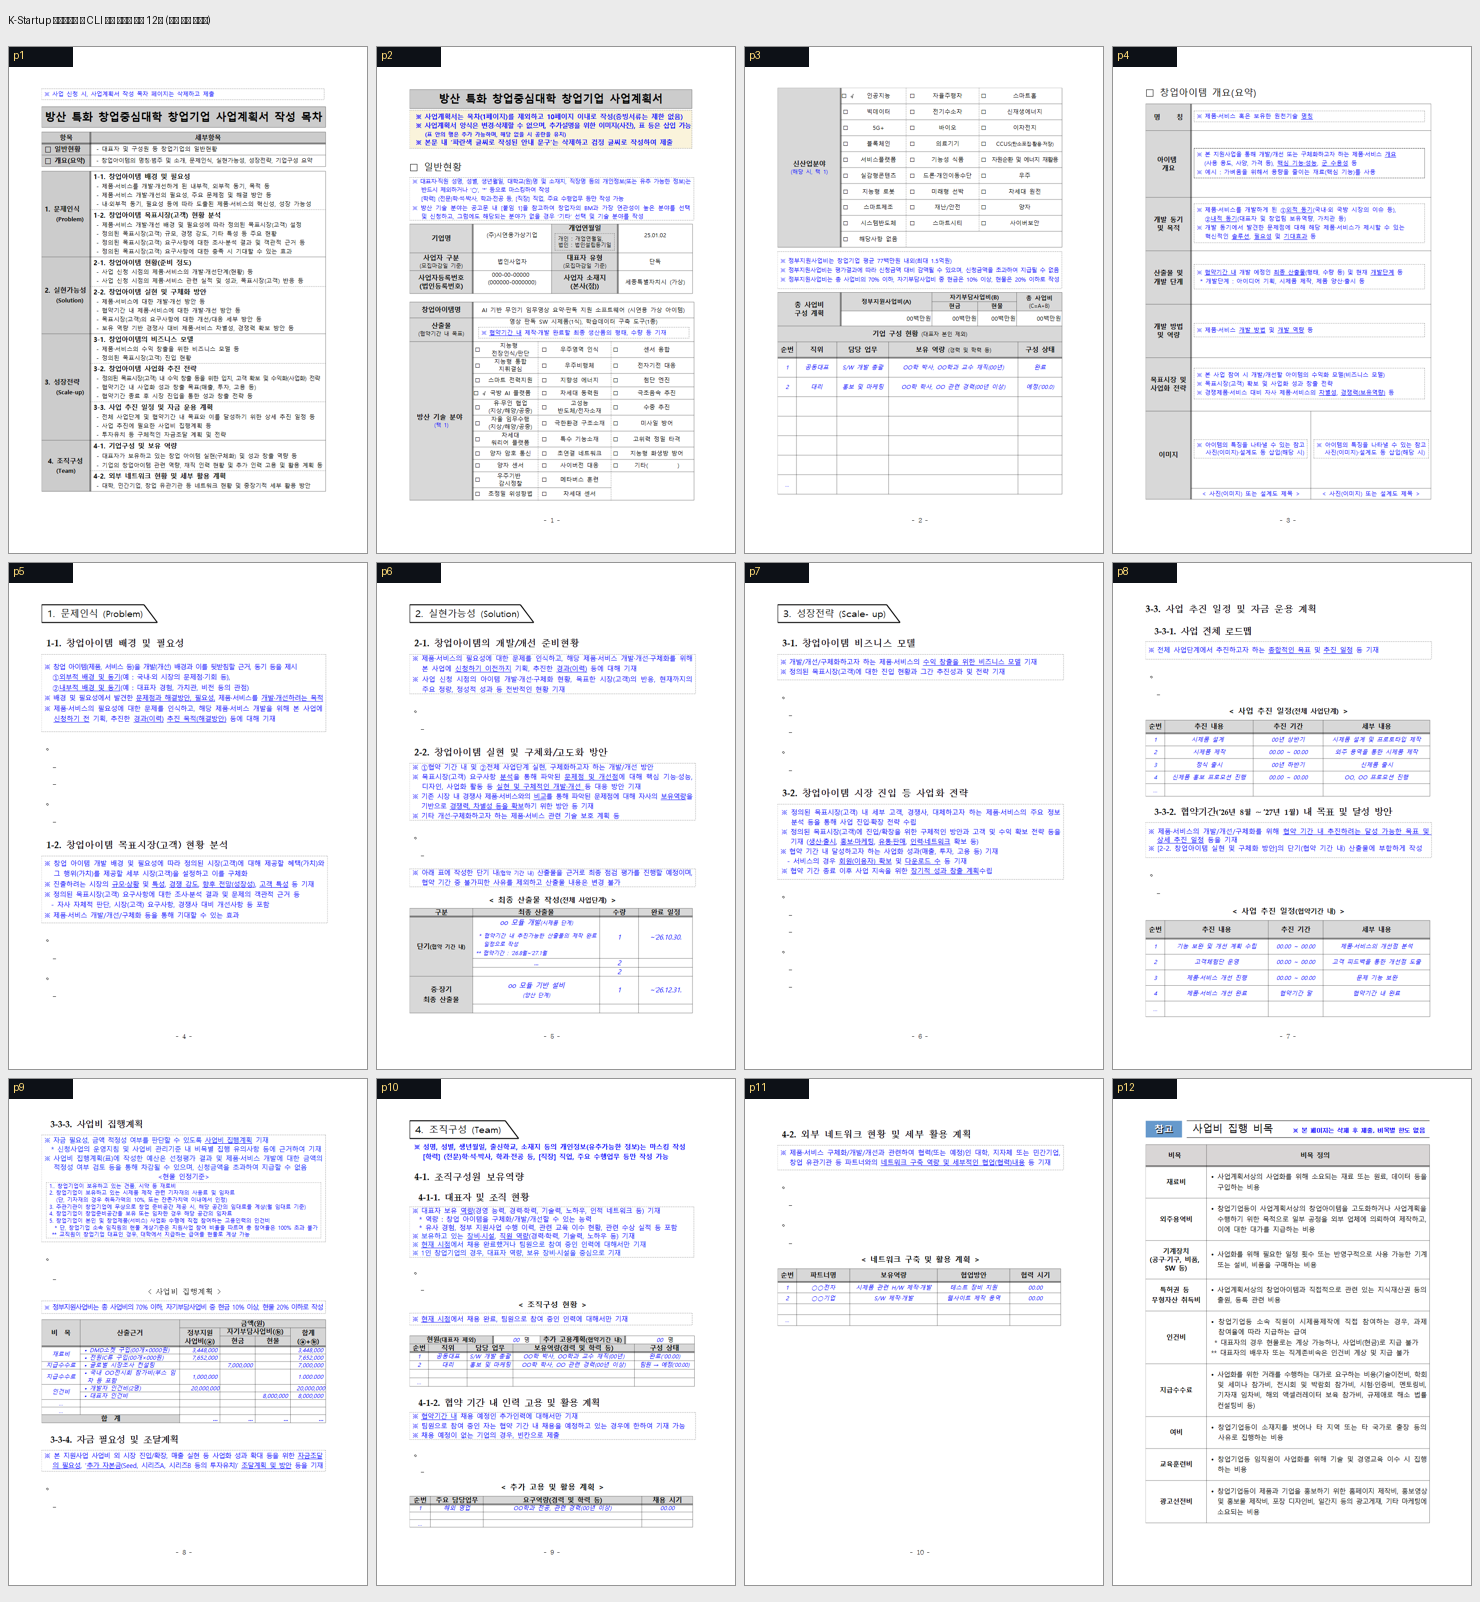
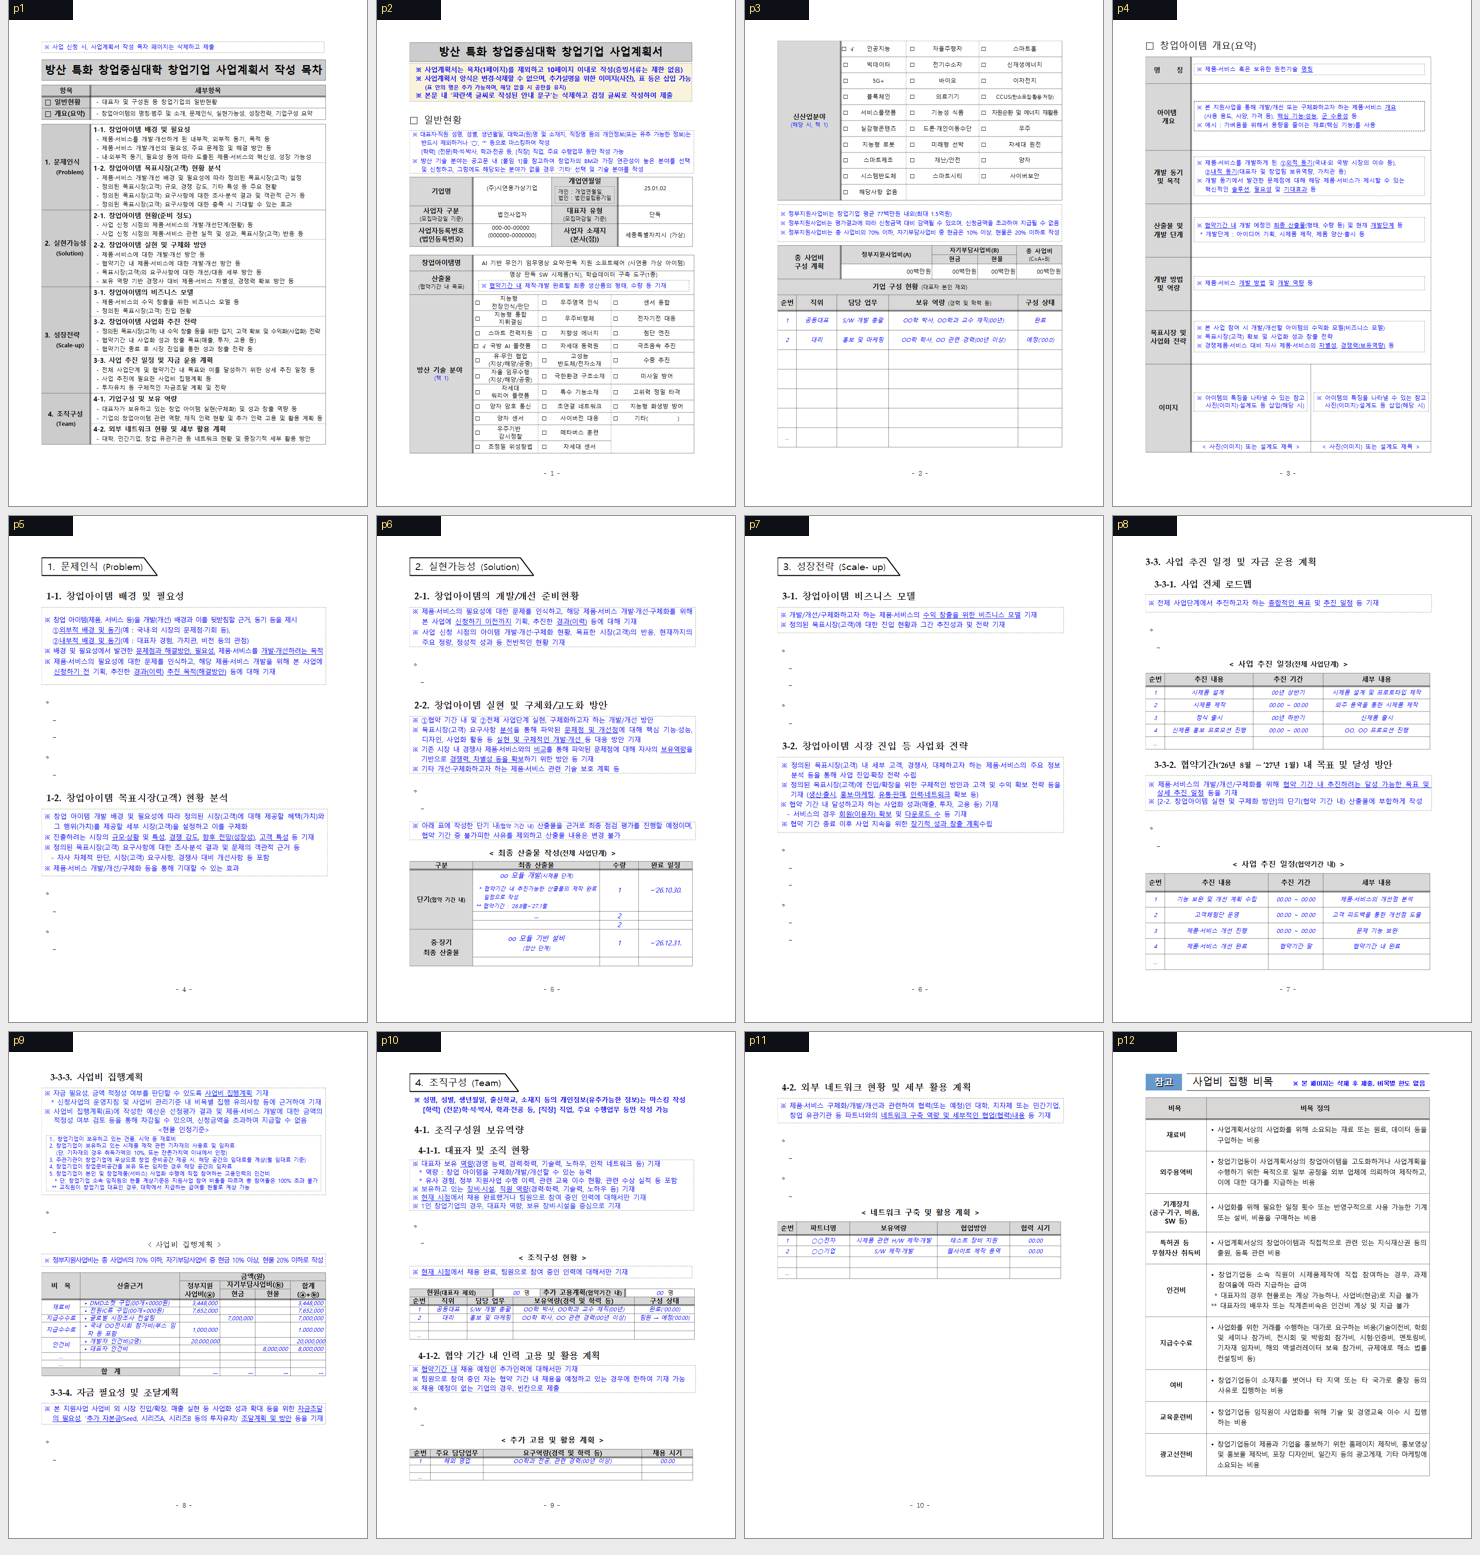
docs: 갤러리 증적 메타데이터 보정

diff --git a/mydocs/report/cli_form_automation_gallery/README.md b/mydocs/report/cli_form_automation_gallery/README.md
@@ -1,5 +1,5 @@
 ---
-kind: report
+kind: reference
 status: active
 canonical: mydocs/manual/agent_task_playbook.md
 last_verified: 2026-07-26
